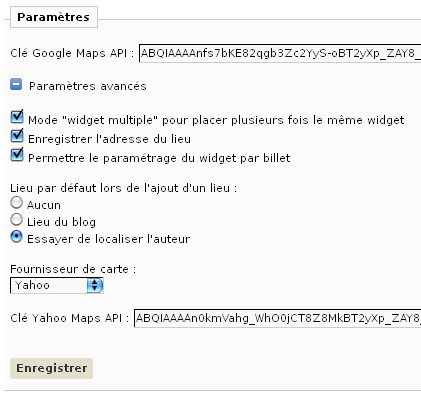
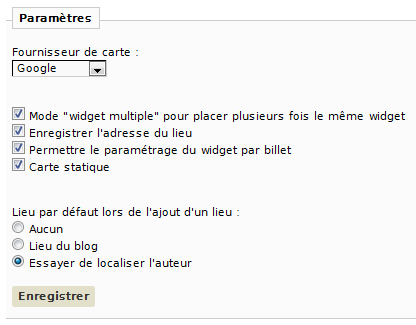
documentation

diff --git a/geoCrazy/locales/en/help.html b/geoCrazy/locales/en/help.html
@@ -20,7 +20,6 @@ Avec Dotclear 2.1, le plugin "metadata" (tags) &eacute;tait n&eacute;cessaire au
 Depuis Dotclear 2.2, ce plugin a &eacute;t&eacute; int&eacute;gr&eacute; au coeur de Dotclear. C'est donc tout bon !
 
 <h3>1.2. Param&egrave;tres</h3>
-Ces param&egrave;tres vous permettent d'aller plus loin dans l'utilisation de GeoCrazy. Ils sont d&eacute;sactiv&eacute;s par d&eacute;faut.
 <ul class="space">
     <li><strong>Fournisseur de carte</strong> : permet de choisir entre Google, Multimap, OpenLayers et Microsoft pour l'affichage des cartes sur le blog. Si vous choisissez Yahoo ou Multimap, une cl&eacute; est n&eacute;cessaire. Vous pouvez demander votre cl&eacute; Yahoo ici <a href="https://developer.apps.yahoo.com/wsregapp/">https://developer.apps.yahoo.com/wsregapp/</a> et votre cl&eacute; Multimap l&agrave; <a href="http://www.multimap.com/openapi/">http://www.multimap.com/openapi/</a>. Attention, pour le moment, quel que soit le fournisseur s&eacute;lectionn&eacute;, c'est une carte Google qui est utilis&eacute;e pour la popup de choix de lieu</li>
     <li><strong>Widget multiple</strong> : permet d'utiliser plusieurs widgets GeoCrazy carte sur une m&ecirc;me page (voir le paragraphe 3.2) gr&acirc;ce au champ suppl&eacute;mentaire "ID" (n'oubliez pas de mettre &agrave; jour les bandeaux dans la rubrique "Widgets de pr&eacute;sentation").</li>
@@ -60,7 +59,7 @@ Pour supprimer le lieu associ&eacute; &agrave; un billet, et ne pas le remplacer
 Validez le changement sur la popup et enregistrez le billet.
 
 <h3>2.4. Param&egrave;tres de la carte (param&egrave;trage avanc&eacute;)</h3>
-Cette option n'est disponible que si vous avez activ&eacute; le param&egrave;tre avanc&eacute; "Permettre le param&eacute;trage du widget par billet". 
+Cette option n'est disponible que si vous avez activ&eacute; le param&egrave;tre "Permettre le param&eacute;trage du widget par billet". 
 On y retrouve les champs du widget (paragraphe 3.1).<br/>
 Pour que la carte du widget s'affiche selon le param&eacute;trage d&eacute;fini dans le widget, laissez les champs vides.<br/>
 Si vous affectez une valeur &agrave; un ou plusieurs champs, alors la carte du billet s'affichera selon les param&egrave;tres d&eacute;finis au niveau du billet. Les param&egrave;tres non renseign&eacute;s au niveau du billet prendront les valeurs d&eacute;finies au niveau du widget.<br/>
@@ -99,7 +98,4 @@ Dans ce cas, pour des raisons techniques, vous devez affecter une valeur au cham
 <h2>4. Flux GeoRSS, sitemap et m&eacute;tadonn&eacute;es g&eacute;ographiques</h2>
 <p>GeoCrazy transforme les flux de votre blog (Atom et RSS) en flux GeoRSS. <a href="http://fr.wikipedia.org/wiki/GeoRSS">GeoRSS</a> est une extension des formats de syndication qui permet d'associer des coordonn&eacute;es g&eacute;ographiques &agrave;ux entr&eacute;es du flux. Les billets non localis&eacute;s restent bien s&ucirc;r pr&eacute;sents dans les flux.</p>
 <p>En plus d'&ecirc;tre consultables dans un agr&eacute;gateur classique, les billets de votre blog peuvent maintenant &ecirc;tre affich&eacute;s dans une carte. Copiez-collez donc l'URL de votre flux RSS dans le champ "recherche" de <a href="http://maps.google.fr/">Google Maps</a> pour essayer. Vos billets g&eacute;olocalis&eacute;s s'affichent sur la carte. Sympa non ? Et cette manipulation n'est pas limit&eacute;e qu'&agrave; Google Maps, vous pouvez par exemple faire la m&ecirc;me chose avec <a href="http://maps.live.fr">Live Maps</a>.</p>
-<p>Un autre avantage du format GeoRSS est l'indexation des contenus en fonction de crit&egrave;res g&eacute;ographiques. Les contenus peuvent alors &ecirc;tre restitu&eacute;s lors d'une recherche locale. 
-Pour aider les moteurs de recherche &agrave; indexer vos contenus g&eacute;olocalis&eacute;s, GeoCrazy g&eacute;n&egrave;re un <a href="http://www.google.com/support/webmasters/bin/answer.py?hl=fr&answer=94554">sitemap g&eacute;ographique</a> (&agrave; l'adresse indiqu&eacute;e dans l'onglet "Configuration") que vous n'avez plus qu'&agrave; <a href="http://www.google.com/support/webmasters/bin/answer.py?answer=34575">soumettre aux moteurs de recherche</a>.
-</p>
 <p>Enfin, chaque page billet pour lequel un lieu a &eacute;t&eacute; associ&eacute; contient des balises m&eacute;ta aux formats <a href="http://geotags.com/geo/geotags2.html">Geo</a> et <a href="http://wikitravel.org/en/Wikitravel:Geographical_data_and_metadata">ICBM</a> renseignant sur le lieu associ&eacute;. Si un lieu est associ&eacute; au blog, la page d'accueil poss&egrave;de aussi ces balises meta. Ces informations sont exploitables avec des outils tels que l'extension Minimap pour Firefox.</p>

diff --git a/geoCrazy/locales/es/help.html b/geoCrazy/locales/es/help.html
@@ -20,7 +20,6 @@ Avec Dotclear 2.1, le plugin "metadata" (tags) &eacute;tait n&eacute;cessaire au
 Depuis Dotclear 2.2, ce plugin a &eacute;t&eacute; int&eacute;gr&eacute; au coeur de Dotclear. C'est donc tout bon !
 
 <h3>1.2. Param&egrave;tres</h3>
-Ces param&egrave;tres vous permettent d'aller plus loin dans l'utilisation de GeoCrazy. Ils sont d&eacute;sactiv&eacute;s par d&eacute;faut.
 <ul class="space">
     <li><strong>Fournisseur de carte</strong> : permet de choisir entre Google, Multimap, OpenLayers et Microsoft pour l'affichage des cartes sur le blog. Si vous choisissez Yahoo ou Multimap, une cl&eacute; est n&eacute;cessaire. Vous pouvez demander votre cl&eacute; Yahoo ici <a href="https://developer.apps.yahoo.com/wsregapp/">https://developer.apps.yahoo.com/wsregapp/</a> et votre cl&eacute; Multimap l&agrave; <a href="http://www.multimap.com/openapi/">http://www.multimap.com/openapi/</a>. Attention, pour le moment, quel que soit le fournisseur s&eacute;lectionn&eacute;, c'est une carte Google qui est utilis&eacute;e pour la popup de choix de lieu</li>
     <li><strong>Widget multiple</strong> : permet d'utiliser plusieurs widgets GeoCrazy carte sur une m&ecirc;me page (voir le paragraphe 3.2) gr&acirc;ce au champ suppl&eacute;mentaire "ID" (n'oubliez pas de mettre &agrave; jour les bandeaux dans la rubrique "Widgets de pr&eacute;sentation").</li>
@@ -60,7 +59,7 @@ Pour supprimer le lieu associ&eacute; &agrave; un billet, et ne pas le remplacer
 Validez le changement sur la popup et enregistrez le billet.
 
 <h3>2.4. Param&egrave;tres de la carte (param&egrave;trage avanc&eacute;)</h3>
-Cette option n'est disponible que si vous avez activ&eacute; le param&egrave;tre avanc&eacute; "Permettre le param&eacute;trage du widget par billet". 
+Cette option n'est disponible que si vous avez activ&eacute; le param&egrave;tre "Permettre le param&eacute;trage du widget par billet". 
 On y retrouve les champs du widget (paragraphe 3.1).<br/>
 Pour que la carte du widget s'affiche selon le param&eacute;trage d&eacute;fini dans le widget, laissez les champs vides.<br/>
 Si vous affectez une valeur &agrave; un ou plusieurs champs, alors la carte du billet s'affichera selon les param&egrave;tres d&eacute;finis au niveau du billet. Les param&egrave;tres non renseign&eacute;s au niveau du billet prendront les valeurs d&eacute;finies au niveau du widget.<br/>
@@ -99,7 +98,4 @@ Dans ce cas, pour des raisons techniques, vous devez affecter une valeur au cham
 <h2>4. Flux GeoRSS, sitemap et m&eacute;tadonn&eacute;es g&eacute;ographiques</h2>
 <p>GeoCrazy transforme les flux de votre blog (Atom et RSS) en flux GeoRSS. <a href="http://fr.wikipedia.org/wiki/GeoRSS">GeoRSS</a> est une extension des formats de syndication qui permet d'associer des coordonn&eacute;es g&eacute;ographiques &agrave;ux entr&eacute;es du flux. Les billets non localis&eacute;s restent bien s&ucirc;r pr&eacute;sents dans les flux.</p>
 <p>En plus d'&ecirc;tre consultables dans un agr&eacute;gateur classique, les billets de votre blog peuvent maintenant &ecirc;tre affich&eacute;s dans une carte. Copiez-collez donc l'URL de votre flux RSS dans le champ "recherche" de <a href="http://maps.google.fr/">Google Maps</a> pour essayer. Vos billets g&eacute;olocalis&eacute;s s'affichent sur la carte. Sympa non ? Et cette manipulation n'est pas limit&eacute;e qu'&agrave; Google Maps, vous pouvez par exemple faire la m&ecirc;me chose avec <a href="http://maps.live.fr">Live Maps</a>.</p>
-<p>Un autre avantage du format GeoRSS est l'indexation des contenus en fonction de crit&egrave;res g&eacute;ographiques. Les contenus peuvent alors &ecirc;tre restitu&eacute;s lors d'une recherche locale. 
-Pour aider les moteurs de recherche &agrave; indexer vos contenus g&eacute;olocalis&eacute;s, GeoCrazy g&eacute;n&egrave;re un <a href="http://www.google.com/support/webmasters/bin/answer.py?hl=fr&answer=94554">sitemap g&eacute;ographique</a> (&agrave; l'adresse indiqu&eacute;e dans l'onglet "Configuration") que vous n'avez plus qu'&agrave; <a href="http://www.google.com/support/webmasters/bin/answer.py?answer=34575">soumettre aux moteurs de recherche</a>.
-</p>
 <p>Enfin, chaque page billet pour lequel un lieu a &eacute;t&eacute; associ&eacute; contient des balises m&eacute;ta aux formats <a href="http://geotags.com/geo/geotags2.html">Geo</a> et <a href="http://wikitravel.org/en/Wikitravel:Geographical_data_and_metadata">ICBM</a> renseignant sur le lieu associ&eacute;. Si un lieu est associ&eacute; au blog, la page d'accueil poss&egrave;de aussi ces balises meta. Ces informations sont exploitables avec des outils tels que l'extension Minimap pour Firefox.</p>

diff --git a/geoCrazy/locales/fr/help.html b/geoCrazy/locales/fr/help.html
@@ -20,7 +20,6 @@ Avec Dotclear 2.1, le plugin "metadata" (tags) &eacute;tait n&eacute;cessaire au
 Depuis Dotclear 2.2, ce plugin a &eacute;t&eacute; int&eacute;gr&eacute; au coeur de Dotclear. C'est donc tout bon !
 
 <h3>1.2. Param&egrave;tres</h3>
-Ces param&egrave;tres vous permettent d'aller plus loin dans l'utilisation de GeoCrazy. Ils sont d&eacute;sactiv&eacute;s par d&eacute;faut.
 <ul class="space">
     <li><strong>Fournisseur de carte</strong> : permet de choisir entre Google, Multimap, OpenLayers et Microsoft pour l'affichage des cartes sur le blog. Si vous choisissez Yahoo ou Multimap, une cl&eacute; est n&eacute;cessaire. Vous pouvez demander votre cl&eacute; Yahoo ici <a href="https://developer.apps.yahoo.com/wsregapp/">https://developer.apps.yahoo.com/wsregapp/</a> et votre cl&eacute; Multimap l&agrave; <a href="http://www.multimap.com/openapi/">http://www.multimap.com/openapi/</a>. Attention, pour le moment, quel que soit le fournisseur s&eacute;lectionn&eacute;, c'est une carte Google qui est utilis&eacute;e pour la popup de choix de lieu</li>
 	<li><strong>Widget multiple</strong> : permet d'utiliser plusieurs widgets GeoCrazy carte sur une m&ecirc;me page (voir le paragraphe 3.2) gr&acirc;ce au champ suppl&eacute;mentaire "ID" (n'oubliez pas de mettre &agrave; jour les bandeaux dans la rubrique "Widgets de pr&eacute;sentation").</li>
@@ -60,7 +59,7 @@ Pour supprimer le lieu associ&eacute; &agrave; un billet, et ne pas le remplacer
 Validez le changement sur la popup et enregistrez le billet.
 
 <h3>2.4. Param&egrave;tres de la carte (param&egrave;trage avanc&eacute;)</h3>
-Cette option n'est disponible que si vous avez activ&eacute; le param&egrave;tre avanc&eacute; "Permettre le param&eacute;trage du widget par billet". 
+Cette option n'est disponible que si vous avez activ&eacute; le param&egrave;tre "Permettre le param&eacute;trage du widget par billet". 
 On y retrouve les champs du widget (paragraphe 3.1).<br/>
 Pour que la carte du widget s'affiche selon le param&eacute;trage d&eacute;fini dans le widget, laissez les champs vides.<br/>
 Si vous affectez une valeur &agrave; un ou plusieurs champs, alors la carte du billet s'affichera selon les param&egrave;tres d&eacute;finis au niveau du billet. Les param&egrave;tres non renseign&eacute;s au niveau du billet prendront les valeurs d&eacute;finies au niveau du widget.<br/>
@@ -99,7 +98,4 @@ Dans ce cas, pour des raisons techniques, vous devez affecter une valeur au cham
 <h2>4. Flux GeoRSS, sitemap et m&eacute;tadonn&eacute;es g&eacute;ographiques</h2>
 <p>GeoCrazy transforme les flux de votre blog (Atom et RSS) en flux GeoRSS. <a href="http://fr.wikipedia.org/wiki/GeoRSS">GeoRSS</a> est une extension des formats de syndication qui permet d'associer des coordonn&eacute;es g&eacute;ographiques &agrave;ux entr&eacute;es du flux. Les billets non localis&eacute;s restent bien s&ucirc;r pr&eacute;sents dans les flux.</p>
 <p>En plus d'&ecirc;tre consultables dans un agr&eacute;gateur classique, les billets de votre blog peuvent maintenant &ecirc;tre affich&eacute;s dans une carte. Copiez-collez donc l'URL de votre flux RSS dans le champ "recherche" de <a href="http://maps.google.fr/">Google Maps</a> pour essayer. Vos billets g&eacute;olocalis&eacute;s s'affichent sur la carte. Sympa non ? Et cette manipulation n'est pas limit&eacute;e qu'&agrave; Google Maps, vous pouvez par exemple faire la m&ecirc;me chose avec <a href="http://maps.live.fr">Live Maps</a>.</p>
-<p>Un autre avantage du format GeoRSS est l'indexation des contenus en fonction de crit&egrave;res g&eacute;ographiques. Les contenus peuvent alors &ecirc;tre restitu&eacute;s lors d'une recherche locale. 
-Pour aider les moteurs de recherche &agrave; indexer vos contenus g&eacute;olocalis&eacute;s, GeoCrazy g&eacute;n&egrave;re un <a href="http://www.google.com/support/webmasters/bin/answer.py?hl=fr&answer=94554">sitemap g&eacute;ographique</a> (&agrave; l'adresse indiqu&eacute;e dans l'onglet "Configuration") que vous n'avez plus qu'&agrave; <a href="http://www.google.com/support/webmasters/bin/answer.py?answer=34575">soumettre aux moteurs de recherche</a>.
-</p>
 <p>Enfin, chaque page billet pour lequel un lieu a &eacute;t&eacute; associ&eacute; contient des balises m&eacute;ta aux formats <a href="http://geotags.com/geo/geotags2.html">Geo</a> et <a href="http://wikitravel.org/en/Wikitravel:Geographical_data_and_metadata">ICBM</a> renseignant sur le lieu associ&eacute;. Si un lieu est associ&eacute; au blog, la page d'accueil poss&egrave;de aussi ces balises meta. Ces informations sont exploitables avec des outils tels que l'extension Minimap pour Firefox.</p>

diff --git a/geoCrazy/settings.php b/geoCrazy/settings.php
@@ -178,7 +178,7 @@ if (isset($_POST['submitForm'])) {
 					echo '<br/>'.__('My RSS feed displayed in Live Maps:').' <a href="'.$atom_in_lmaps.'">'.$atom_in_lmaps.'</a>';
 				?>
 			</fieldset>
-			<br/>
+			<!-- <br/>
 			<fieldset>
 				<legend><?php echo __('Geo sitemap') ?></legend>
 				<?php
@@ -186,7 +186,7 @@ if (isset($_POST['submitForm'])) {
 					$geo_sitemap = $core->blog->url.'sitemap-geo.xml';
 					echo '<br/>'.__('My geo sitemap:').' <a href="'.$geo_sitemap.'">'.$geo_sitemap.'</a>';
 				?>
-			</fieldset>
+			</fieldset>-->
 		</div>
 
 		<div class="multi-part" id="doc" title="<?php echo __('Documentation'); ?>">
